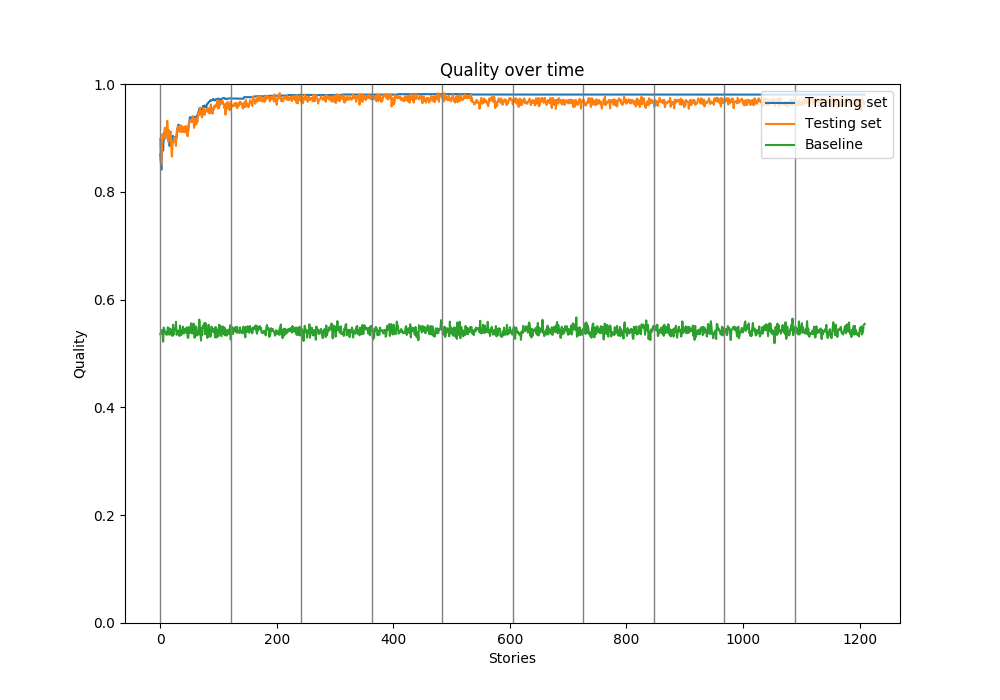
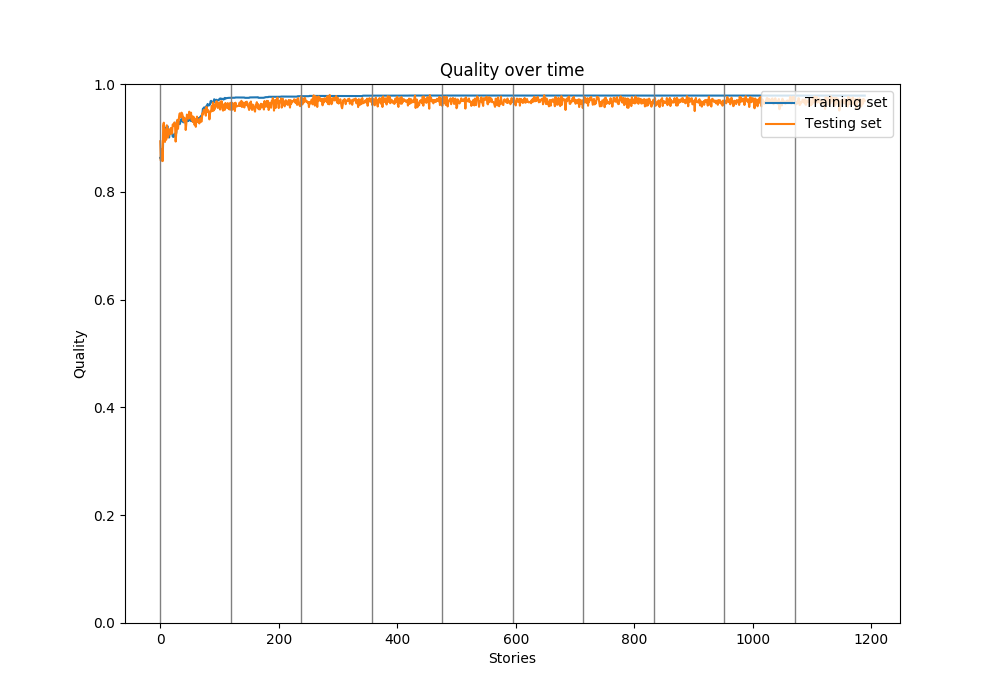
plot leds without baseline

diff --git a/learner.py b/learner.py
@@ -71,7 +71,7 @@ class QLearner:
 	def get_corenlp_sentiment(self, sentence):
 		decmark_reg = re.compile('(?<=\d),(?=\d)')
 		annotation = json.loads(decmark_reg.sub('.',self.story_teller.nlp.annotate(sentence, \
-                                                              properties=self.story_teller.props)))
+                                                                          properties=self.story_teller.props)))
 		sentiment_distribution = annotation["sentences"][0][
 		        "sentimentDistribution"]
 		# sentiment_distribution = [round(x, 1) for x in sentiment_distribution]
@@ -94,8 +94,8 @@ class QLearner:
 			num_next_states = len(self.transition_table[current_sentence])
 			counter = Counter(self.transition_table[current_sentence])
 			self.transition_table[current_sentence] = \
-                                              {sentence: occurences/num_next_states \
-                                              for (sentence, occurences) in counter.most_common()}
+                                                                {sentence: occurences/num_next_states \
+                                                                for (sentence, occurences) in counter.most_common()}
 
 	def choose_action(self, state):
 		if random.uniform(0.0, 1.0) < self.epsilon:
@@ -109,19 +109,19 @@ class QLearner:
 
 	def best_action_leds(self, state):
 		if state not in self.state_action_table or \
-                                                   not self.state_action_table[state]:
+                                                               not self.state_action_table[state]:
 			return random.choice(self.story_teller.led_gesture.keys())
 		led_action = max(self.state_action_table[state].items(), \
-                                                           key=lambda (x, y): y)
+                                                                       key=lambda (x, y): y)
 		led_action = led_action[0]
 		return led_action
 
 	def best_action(self, state):
 		if state not in self.state_action_table or \
-                                                   not self.state_action_table[state]:
+                                                               not self.state_action_table[state]:
 			return random.choice(self.story_teller.gesture_list)
 		gesture = max(self.state_action_table[state].items(), \
-                                                           key=lambda (x, y): y)
+                                                                       key=lambda (x, y): y)
 		gesture = gesture[0]
 		return gesture
 
@@ -143,8 +143,8 @@ class QLearner:
 
 	def led_reward(self, state, led_action):
 		led_distribution = self.story_teller.leds_to_emotion[led_action]
-		arousal = max((state[0]+state[1]*0.5), (state[4]+state[3]*0.5))
-		new_sent_distr = (np.argmax(state), arousal )
+		arousal = max((state[0] + state[1] * 0.5), (state[4] + state[3] * 0.5))
+		new_sent_distr = (np.argmax(state), arousal)
 		self.arousal_list.append(arousal)
 		dot = np.dot(new_sent_distr, led_distribution)
 		norma = np.linalg.norm(new_sent_distr)
@@ -209,10 +209,10 @@ class QLearner:
 					expressivity_reward = (gesture_distribution[0] +
 					                       gesture_distribution[4]) * 2.0
 					self.state_action_table[state][gesture] = \
-                                               current_utility + \
-                                               self.learning_rate * \
-                                                (reward + self.decay * next_utility +  \
-                                                 repeat_gesture_penalty + expressivity_reward - current_utility)
+                                                                             current_utility + \
+                                                                             self.learning_rate * \
+                                                                              (reward + self.decay * next_utility +  \
+                                                                               repeat_gesture_penalty + expressivity_reward - current_utility)
 
 		print("Done training")
 		print("----> Best quality: {:4f}".format(best_qual))
@@ -223,7 +223,6 @@ class QLearner:
 		start = time.time()
 		test_qualities = []
 		train_qualities = []
-		baseline_qualities = []
 
 		best_qual = 0.0
 		best_state_action_table = {}
@@ -241,12 +240,10 @@ class QLearner:
 			for story in self.training_set:
 				test_quality = self.test_leds("test")
 				train_quality = self.test_leds("train")
-				baseline_quality = self.test_random()
 
 				print(epoch, " - ", test_quality)
 
 				test_qualities.append(test_quality)
-				baseline_qualities.append(baseline_quality)
 				train_qualities.append(train_quality)
 
 				if test_quality > best_qual:
@@ -271,17 +268,17 @@ class QLearner:
 					        led_action, 0.0)
 
 					self.state_action_table[state][led_action] = \
-                                                              current_utility + \
-                                                              self.learning_rate * \
-                                                               (reward + self.decay * next_utility +  \
-                                                               current_utility)
+                                                                                            current_utility + \
+                                                                                            self.learning_rate * \
+                                                                                             (reward + self.decay * next_utility +  \
+                                                                                             current_utility)
 
 		print("Done training")
 		print("----> Best quality: {:4f}".format(best_qual))
 		print("Arousal max:{}, arousal min:{}, arousal average:{}".format(
 		        np.max(self.arousal_list), np.min(self.arousal_list),
 		        np.mean(self.arousal_list)))
-		return train_qualities, test_qualities, baseline_qualities, best_state_action_table
+		return train_qualities, test_qualities, best_state_action_table
 
 	def test(self, select_set):
 		# error = 0.0
@@ -337,7 +334,7 @@ class QLearner:
 	def plot_data(self,
 	              train_data,
 	              test_data,
-	              baseline,
+	              baseline=None,
 	              title="Quality over time",
 	              mean=False):
 		fig, ax = plt.subplots(figsize=(10, 7))
@@ -346,7 +343,8 @@ class QLearner:
 		x_data = range(len(train_data))
 		ax.plot(x_data, train_data, label="Training set")
 		ax.plot(x_data, test_data, label="Testing set")
-		ax.plot(x_data, baseline, label="Baseline")
+		if baseline:
+			ax.plot(x_data, baseline, label="Baseline")
 		for xc in range(0, len(x_data), len(self.training_set)):
 			plt.axvline(x=xc, linewidth=1, color='grey')
 		plt.xlabel("Stories")
@@ -358,30 +356,21 @@ class QLearner:
 		fig.savefig("{}.png".format(title))
 
 	def main_leds(self):
-		total_q_train = []
-		total_q_test = []
+		#total_q_train = []
+		#total_q_test = []
 		for indx in range(1):
 			print("-" * 10)
 			self.state_action_table = {}
-			train_qualities, test_qualities, baseline_qualities, best_policy = self.train_leds(
-			)
+			train_qualities, test_qualities, best_policy = self.train_leds()
 			title = "best_policy_run_leds{}.json".format(indx)
-			# quality_title = "quality_run{}".format(indx)
-			# loss_title = "loss_run{}".format(indx)
 			with open(title, "w") as file:
 				best_policy = {
 				        str(state): best_action(state, best_policy)
 				        for state in best_policy
 				}
 				json.dump(best_policy, file)
-			self.plot_data(train_qualities, test_qualities, baseline_qualities)
-			#total_q_train.append(train_qualities)
-			#total_q_test.append(test_qualities)
-		# with open("Quality_Total_Train_json", "w") as file:
-		# 	json.dump(total_q_train,file)
-		# with open("Loss_Total_Test_json", "w") as file:
-		# 	json.dump(total_q_test,file)
-	
+			self.plot_data(train_qualities, test_qualities)
+
 	def main_gesture(self):
 		total_q_train = []
 		total_q_test = []
@@ -391,8 +380,6 @@ class QLearner:
 			train_qualities, test_qualities, baseline_qualities, best_policy = self.train_gestures(
 			)
 			title = "best_policy_run{}.json".format(indx)
-			# quality_title = "quality_run{}".format(indx)
-			# loss_title = "loss_run{}".format(indx)
 			with open(title, "w") as file:
 				best_policy = {
 				        str(state): best_action(state, best_policy)
@@ -400,12 +387,6 @@ class QLearner:
 				}
 				json.dump(best_policy, file)
 			self.plot_data(train_qualities, test_qualities, baseline_qualities)
-			#total_q_train.append(train_qualities)
-			#total_q_test.append(test_qualities)
-		# with open("Quality_Total_Train_json", "w") as file:
-		# 	json.dump(total_q_train,file)
-		# with open("Loss_Total_Test_json", "w") as file:
-		# 	json.dump(total_q_test,file)
 
 	def main(self):
 		self.main_gesture()
@@ -415,7 +396,7 @@ class QLearner:
 def best_action(state, state_action_table):
 	# move to utils
 	gesture = max(state_action_table[state].items(), \
-                                           key=lambda (x, y): y)
+                                                 key=lambda (x, y): y)
 	gesture = gesture[0]
 	return gesture
 

diff --git a/main.py b/main.py
@@ -50,17 +50,16 @@ class StoryTeller:
 		# 	self.facetrack.setEnabled(False)
 		# 	self.facetrack.pauseAwareness()
 
-
 	def init_stories(self):
 		with open("aesopFables.json") as file:
 			dataset = json.load(file)["stories"]
 		self.story = dataset[38]
 		self.sentences = self.story["story"]
 		processed_story = [" \\mrk=" + str(i + 2) + "\\ " + str(self.sentences[i]) \
-                                    for i in range(len(self.sentences))]
+                                                for i in range(len(self.sentences))]
 
 		self.story["story"] = "\\rspd=80\\" + \
-                                       "".join(processed_story)
+                                                   "".join(processed_story)
 
 	def init_policy(self):
 		with open("best_policy_run0.json") as file:
@@ -83,7 +82,10 @@ class StoryTeller:
 		return sentiment_distribution
 
 	def init_sentence_to_sentiment(self):
-		self.sentences_sentiment_distribution = [self.get_corenlp_sentiment(sentence) for sentence in self.sentences]
+		self.sentences_sentiment_distribution = [
+		        self.get_corenlp_sentiment(sentence)
+		        for sentence in self.sentences
+		]
 
 	def init_gesture_list(self):
 		self.gesture_list = list(self.gesture_to_probability.keys())
@@ -280,7 +282,7 @@ class StoryTeller:
 		}
 
 		self.neutral_gestures = [x for x in self.gesture_to_probability \
-                                       if np.argmax(self.gesture_to_probability[x]) == 2]
+                                                   if np.argmax(self.gesture_to_probability[x]) == 2]
 
 	def init_leds_gestures(self):
 		self.led_gesture = {
@@ -330,7 +332,6 @@ class StoryTeller:
 		self.sub = self.memory_service.subscriber(
 		        "ALTextToSpeech/CurrentBookMark")
 		self.sub.signal.connect(self.bookmark_handler)
-
 
 	def init_sentiment_analysis_client(self):
 		self.nlp = StanfordCoreNLP('http://localhost', port=9000, timeout=30000)
@@ -481,17 +482,15 @@ class StoryTeller:
 		self.anim.run(gesture)
 		#self.posture.goToPosture("Stand", 1.0)
 		#self.motion.angleInterpolation(["HeadYaw", "HeadPitch"], [0.0, 0.0], [1.0, 1.0], True)
-		
+
 		quality = self.quality_function(self.sentences[index], gesture)
 		self.quality_sum += quality
-
 
 	def eye_change_handler(self, data):
 		emotion, gesture = data
 		print(emotion)
 		print(gesture)
 		#self.change_eyes(emotion, gesture)
-
 
 	def change_eyes(self, emotion, gesture):
 		print(gesture, " - ", self.led_gestures[gesture])
